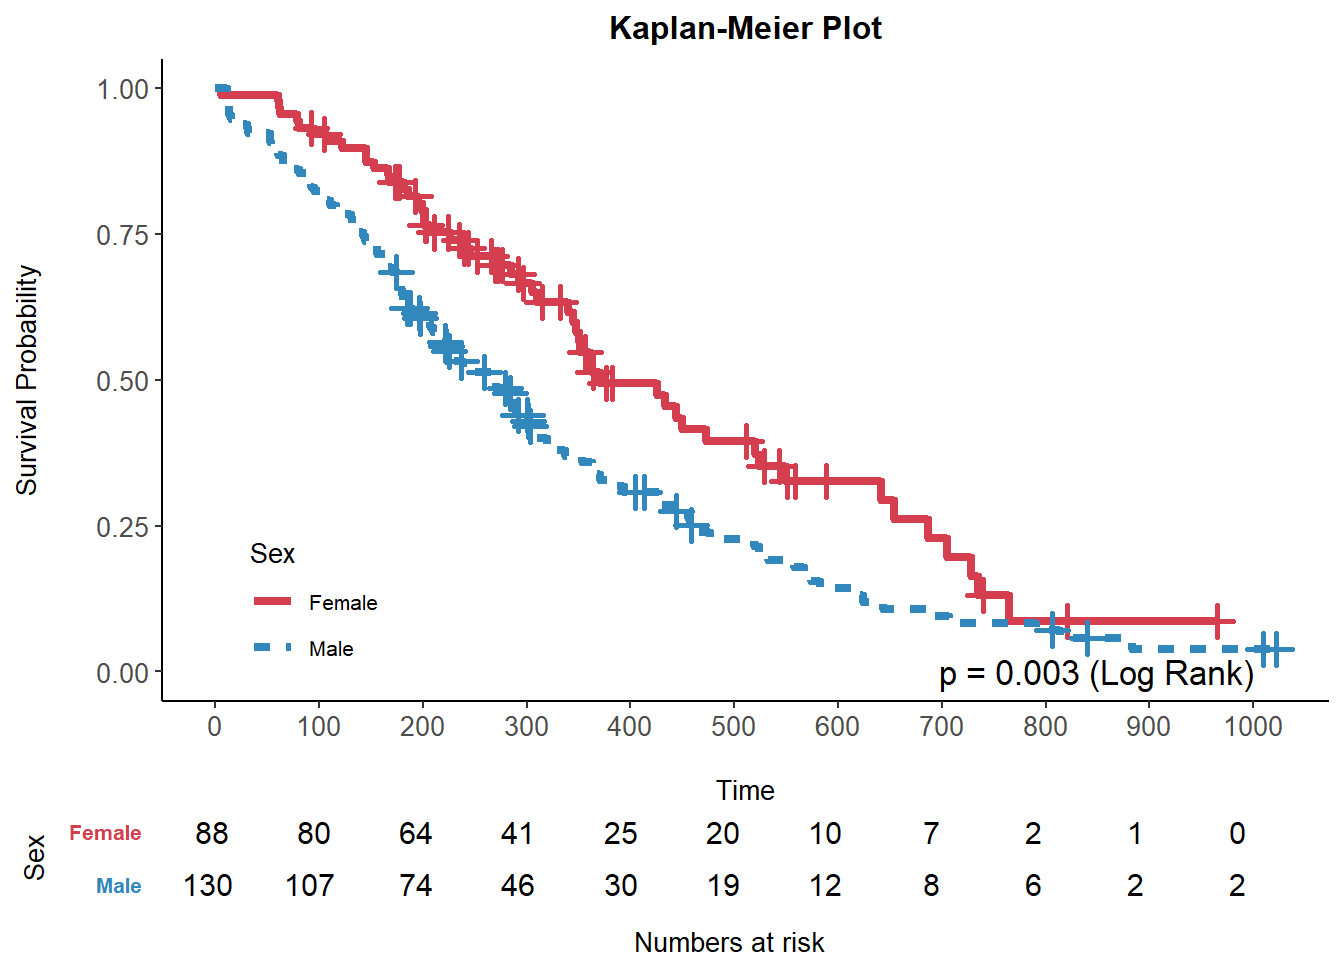
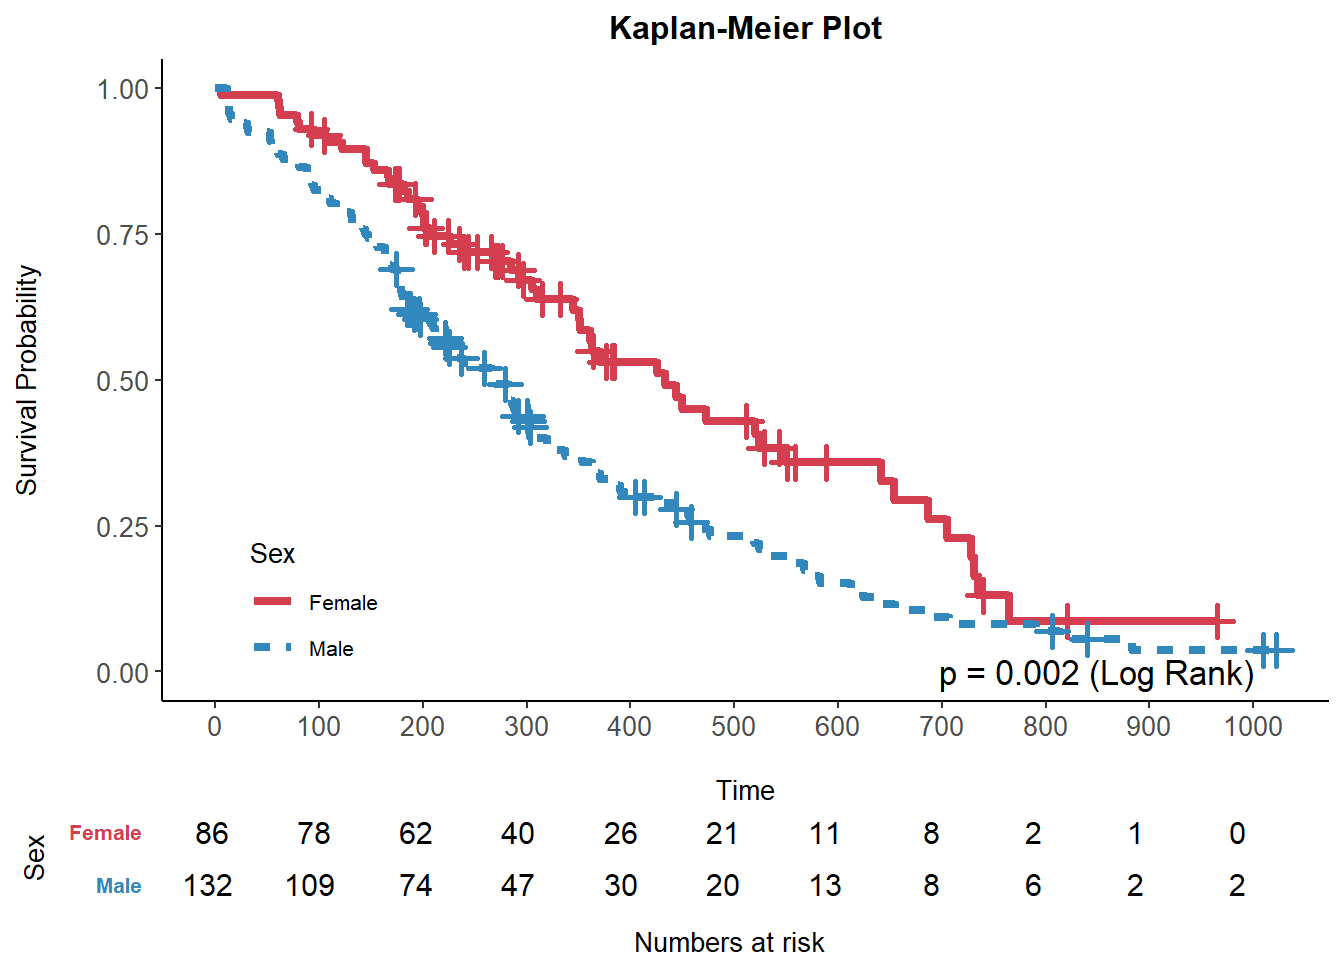
minor tidying

diff --git a/docs/covsum.html b/docs/covsum.html
@@ -219,10 +219,10 @@ Covariate
 Full Sample (n=228)
 </th>
 <th style="text-align:right;">
-Female (n=88)
+Female (n=86)
 </th>
 <th style="text-align:right;">
-Male (n=130)
+Male (n=132)
 </th>
 <th style="text-align:right;">
 NA (n=10)
@@ -268,10 +268,10 @@ Status
 165
 </td>
 <td style="text-align:right;">
-52 (32)
+50 (30)
 </td>
 <td style="text-align:right;">
-105 (64)
+107 (65)
 </td>
 <td style="text-align:right;">
 8 (5)
@@ -298,13 +298,13 @@ Mean (sd)
 9.83 (13.14)
 </td>
 <td style="text-align:right;">
-7.68 (13.32)
+7.83 (13.44)
 </td>
 <td style="text-align:right;">
-11.58 (12.99)
+11.52 (13.10)
 </td>
 <td style="text-align:right;">
-6.90 (11.22)
+5.60 (7.49)
 </td>
 </tr>
 <tr>
@@ -318,10 +318,10 @@ Median (Q1,Q3)
 4 (0,11)
 </td>
 <td style="text-align:right;">
-9.00 (1.00,18.50)
+9.00 (1.00,19.50)
 </td>
 <td style="text-align:right;">
-4.00 (-0.25,13.25)
+3.50 (0.50,9.50)
 </td>
 </tr>
 <tr>
@@ -338,7 +338,7 @@ Range (min, max)
 (-13,68)
 </td>
 <td style="text-align:right;">
-(-7,25)
+(-5,20)
 </td>
 </tr>
 <tr>
@@ -379,10 +379,10 @@ one level
 228
 </td>
 <td style="text-align:right;">
-88 (39)
+86 (38)
 </td>
 <td style="text-align:right;">
-130 (57)
+132 (58)
 </td>
 <td style="text-align:right;">
 10 (4)

diff --git a/docs/mvsum.html b/docs/mvsum.html
@@ -218,10 +218,10 @@ Global p-value
 Sex
 </td>
 <td style="text-align:right;font-weight: bold;">
-2.87 (1.52,5.41)
+3.04 (1.61,5.75)
 </td>
 <td style="text-align:right;font-weight: bold;">
-0.0011
+&lt;0.001
 </td>
 </tr>
 <tr>
@@ -229,10 +229,10 @@ Sex
 age
 </td>
 <td style="text-align:right;">
-1.03 (0.99,1.06)
+1.03 (1.00,1.07)
 </td>
 <td style="text-align:right;">
-0.11
+0.078
 </td>
 </tr>
 <tr>
@@ -243,7 +243,7 @@ wt loss
 1.00 (0.98,1.02)
 </td>
 <td style="text-align:right;">
-0.92
+0.89
 </td>
 </tr>
 </tbody>

diff --git a/docs/why-use-r-markdown-instead-of-sweave.html b/docs/why-use-r-markdown-instead-of-sweave.html
@@ -207,7 +207,7 @@ code span.wa { color: #60a0b0; font-weight: bold; font-style: italic; } /* Warni
 <li>Websites with Blogdown <a href="https://alison.rbind.io/post/new-year-new-blogdown/" class="uri">https://alison.rbind.io/post/new-year-new-blogdown/</a></li>
 </ul></li>
 </ul>
-<p>⏯ If you know Sweave, picking up Markdown is easy!</p>
+<p>▶ If you know Sweave, picking up Markdown is easy!</p>
 </div>
             </section>
 

diff --git a/docs/uvsum.html b/docs/uvsum.html
@@ -258,7 +258,7 @@ Reference
 <td style="text-align:right;">
 </td>
 <td style="text-align:right;">
-88
+86
 </td>
 </tr>
 <tr>
@@ -266,12 +266,12 @@ Reference
 Male
 </td>
 <td style="text-align:right;">
-2.91 (1.74,4.85)
+3.08 (1.85,5.15)
 </td>
 <td style="text-align:right;">
 </td>
 <td style="text-align:right;">
-130
+132
 </td>
 </tr>
 <tr>

diff --git a/docs/outtable.html b/docs/outtable.html
@@ -248,10 +248,10 @@ NA_
 1
 </td>
 <td style="text-align:right;font-weight: bold;">
-52
+50
 </td>
 <td style="text-align:right;font-weight: bold;">
-105
+107
 </td>
 <td style="text-align:right;font-weight: bold;">
 8
